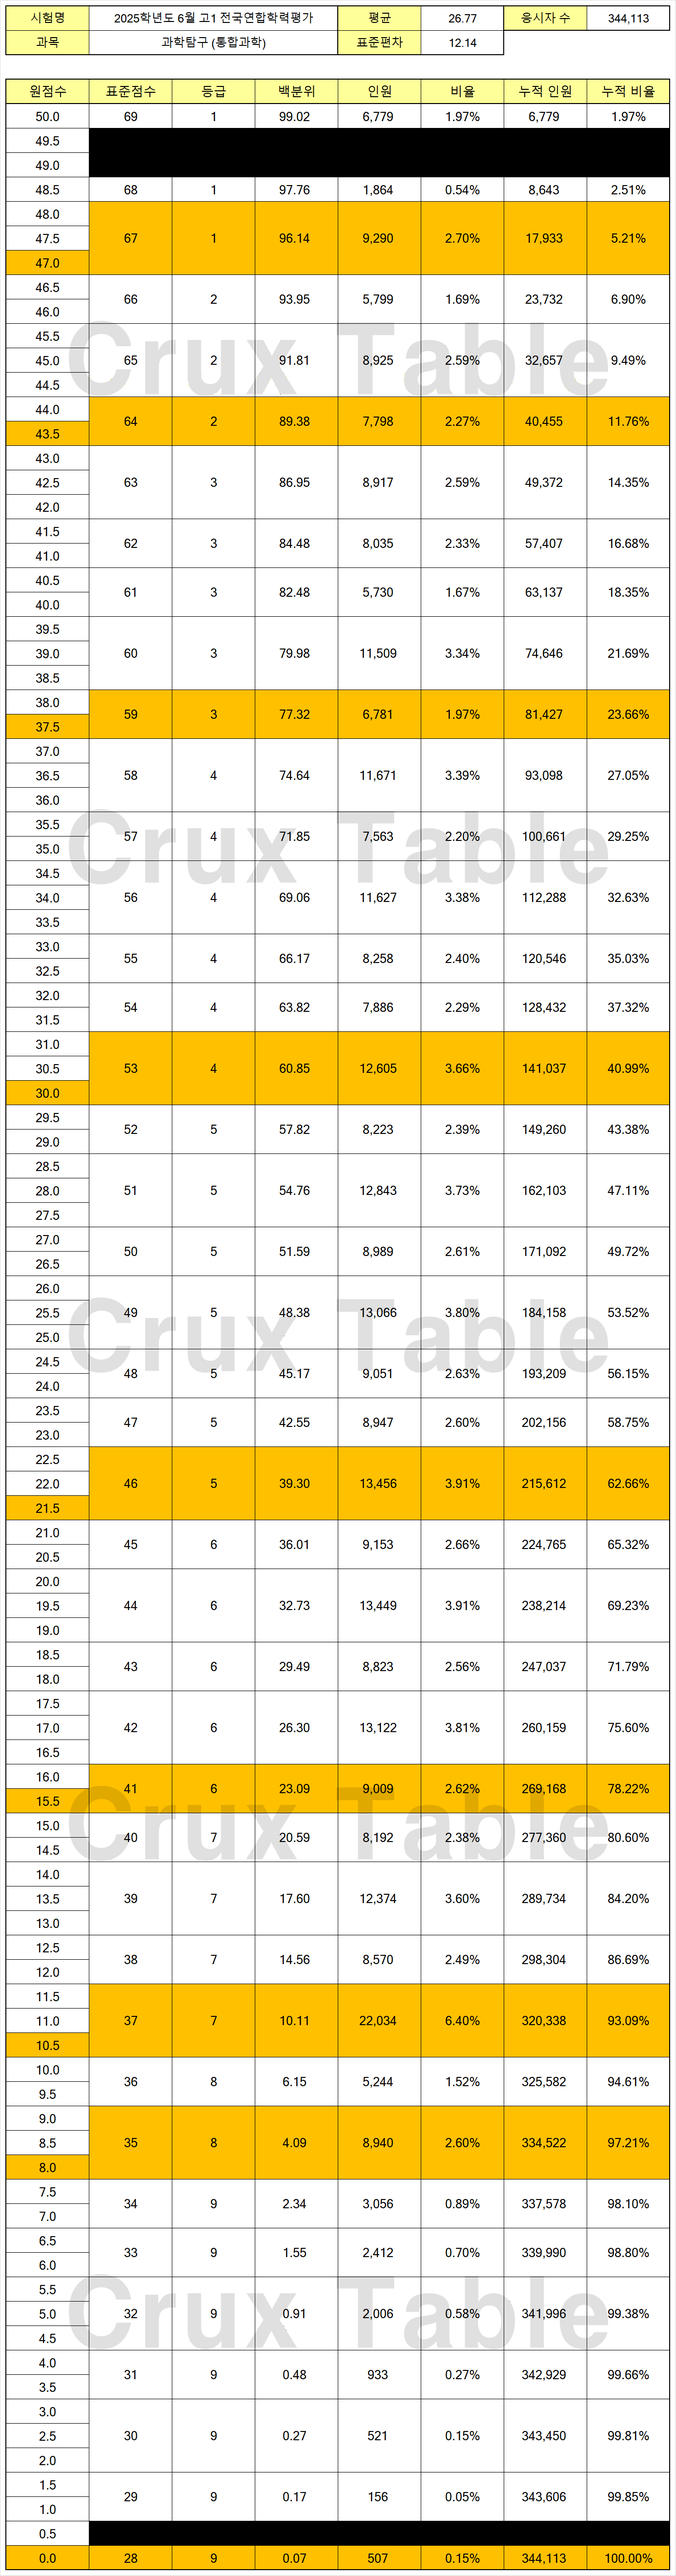
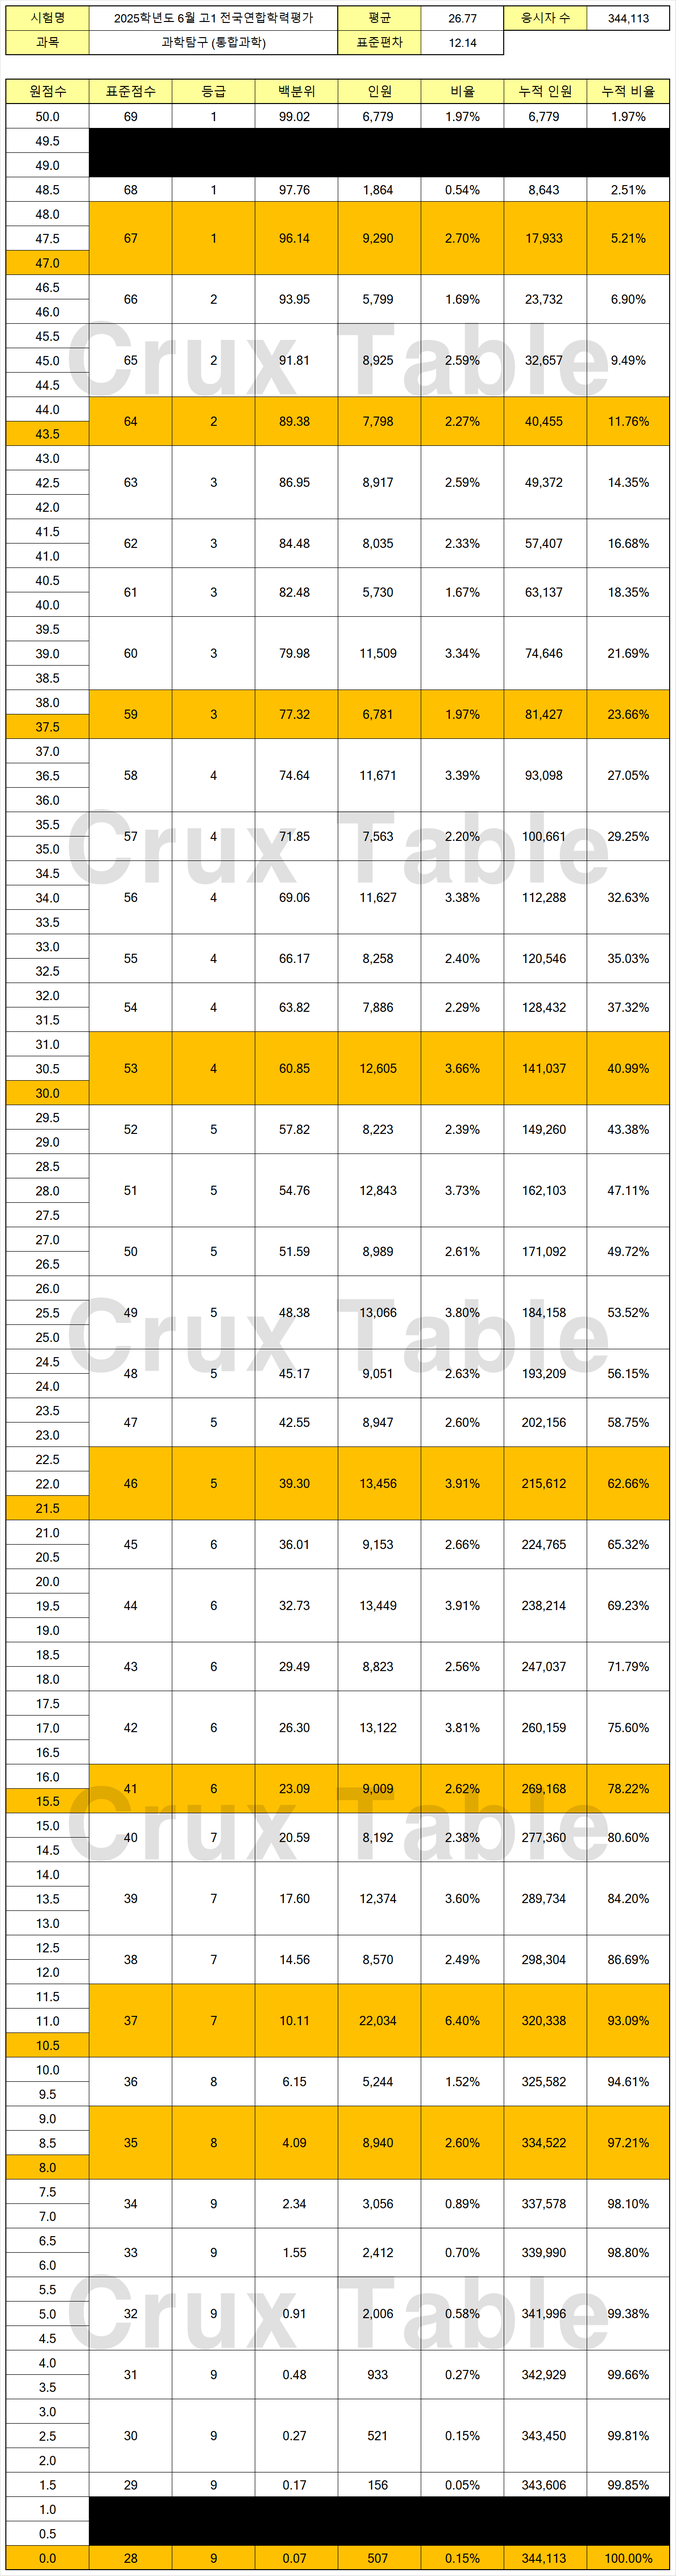
통합과학 역산 버그 수정

Changed region(s): [[0.1242, 0.9638, 0.9935, 0.9949]]

diff --git a/js/search.js b/js/search.js
@@ -838,7 +838,7 @@ function showInfo2() {
     }
     ex1[2].firstChild.style = ex1Output.innerText != "X" ? "color: #3030EE" : "color: #EE3030"; 
 
-    // 수학 처리 부분 (고1, 고2)
+    // 탐구2 처리 부분
     idx = 0;
     if(!ex2Std) {
         ex2Output.innerText = "";
@@ -850,9 +850,9 @@ function showInfo2() {
             let idx2 = data[key][E2].length-1;
             while(idx2 > -1 && data[key][E2][idx2][0] != ex2Std) idx2--;
             if(idx != idx2) {
-                ex2Output.innerText = `${50-idx2} ~ ${50-idx}`
+                ex2Output.innerText = newSystem ? `${((100-idx2)/2).toFixed(1)} ~ ${((100-idx)/2).toFixed(1)}` : `${50-idx2} ~ ${50-idx}`
             } else {
-                ex2Output.innerText = 50-idx;
+                ex2Output.innerText = newSystem ? ((100-idx)/2).toFixed(1) : 50-idx;
             }
         } 
     } else {

diff --git a/js/table-form.js b/js/table-form.js
@@ -429,7 +429,7 @@ const tableType5 =
             *** 유효한 원점수란? ***<br>\
             1) 국어, 수학, 영어: 0부터 100까지의 정수 <span style="color:red">(1과 99는 유효하지 않음)</span><br>\
             2) 한국사: 0부터 50까지의 정수 <span style="color:red">(1과 49는 유효하지 않음)</span><br>\
-            3) 탐구: 0부터 50까지의 실수 중 0.5로 나누어 떨어지는 수 <span style="color:red">(0.5와 1과 49와 49.5는 유효하지 않음)</span><br>\
+            3) 탐구: 0부터 50까지의 실수 중 0.5의 배수 <span style="color:red">(0.5와 1과 49와 49.5는 유효하지 않음)</span><br>\
             4) 제2외국어/한문: 0부터 50까지의 정수</li>\
         </span>\
     </ul>\
